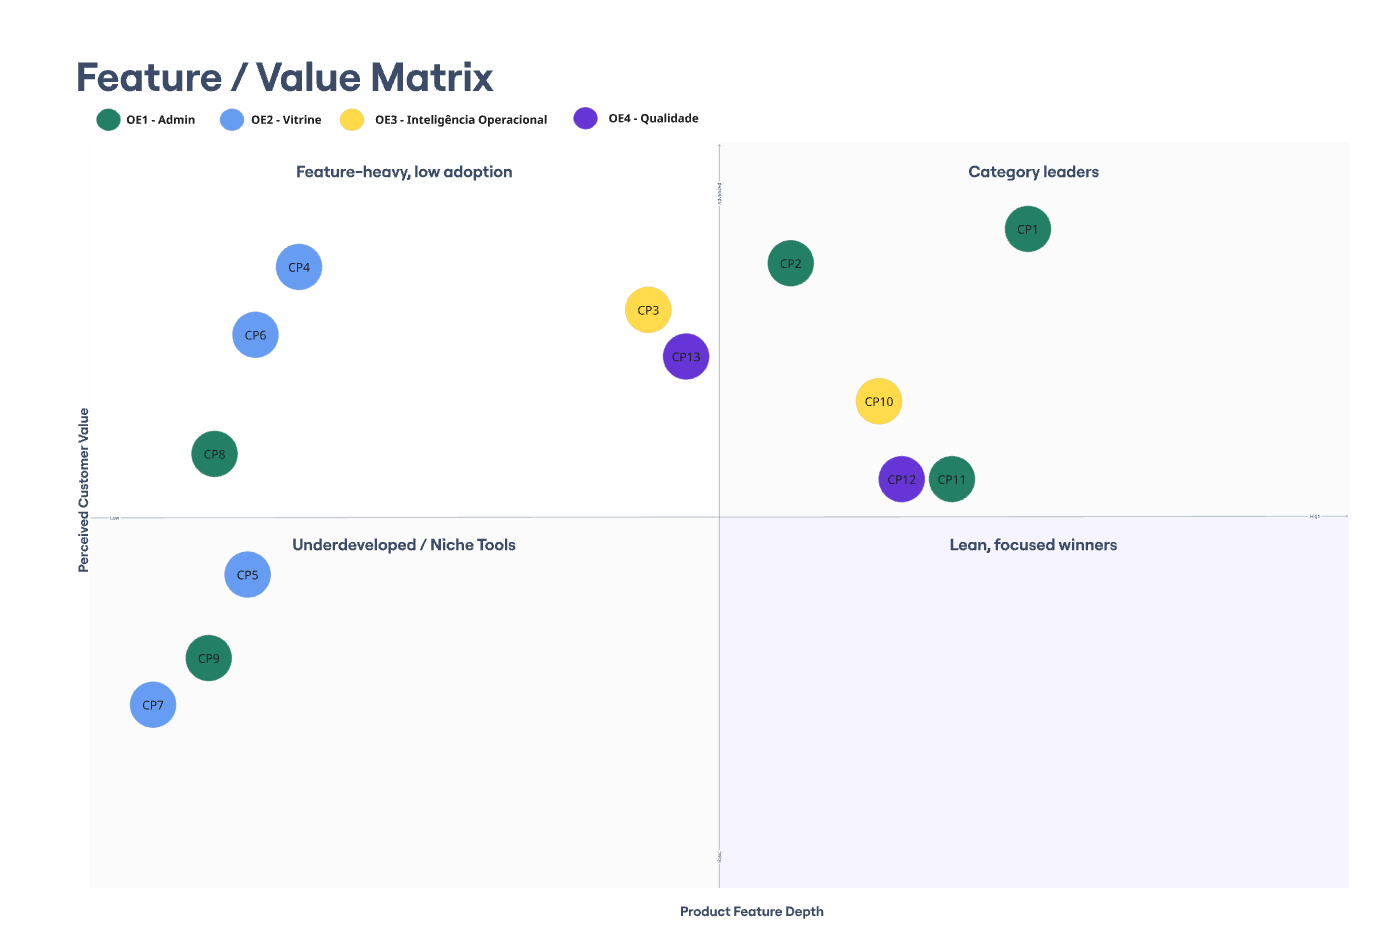
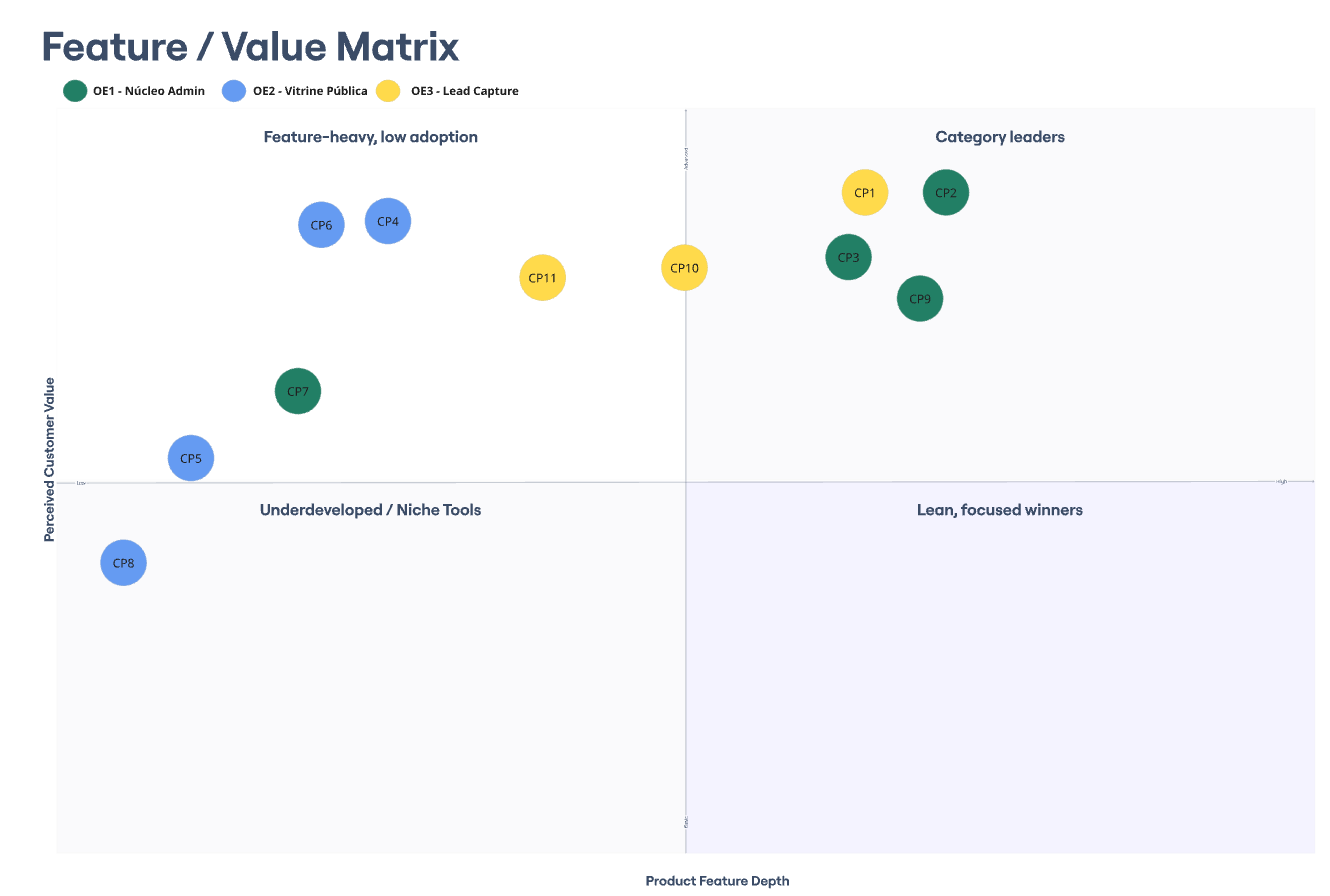
Deployed 739e7c7 with MkDocs version: 1.6.1

diff --git a/index.html b/index.html
@@ -515,5 +515,5 @@
 
 <!--
 MkDocs version : 1.6.1
-Build Date UTC : 2026-05-09 00:00:47.586885+00:00
+Build Date UTC : 2026-05-09 01:38:34.034603+00:00
 -->